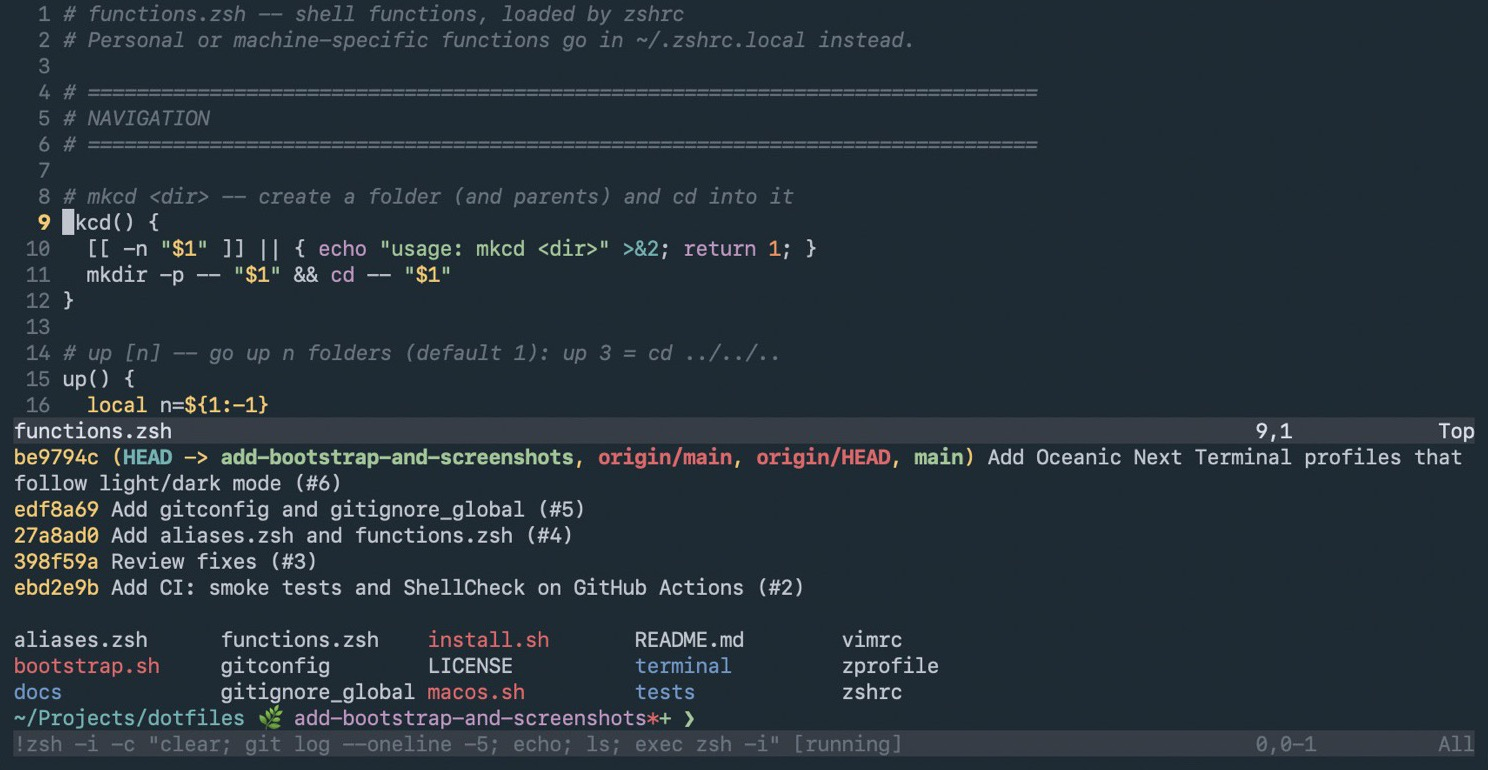
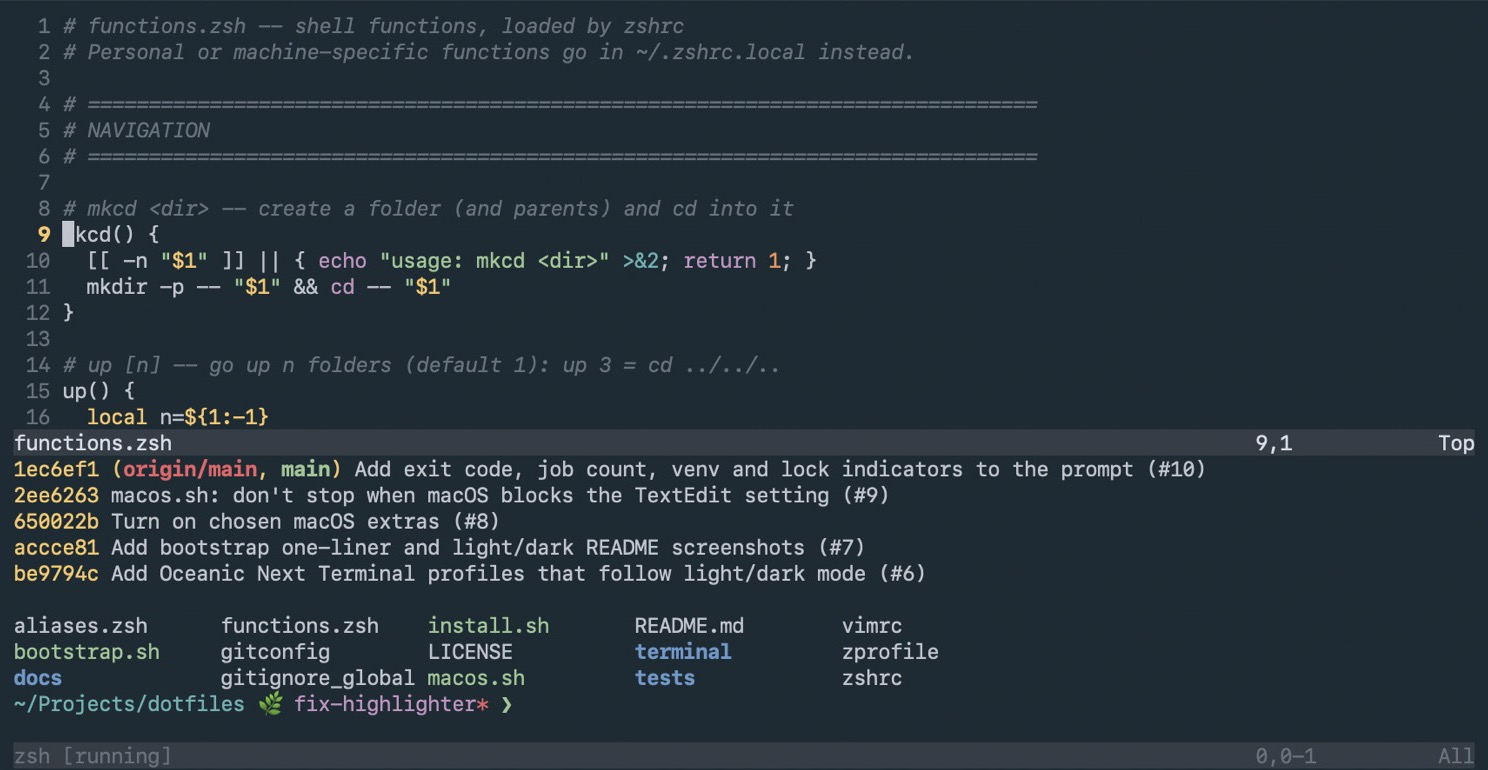
Fix highlighter false errors, add its tests, refresh README and screenshots (#11)
Highlighter (zshrc):
- [[ (( { ! and subshells ( are valid command starts, not red errors
- Paths to executables (./script, /bin/ls, ~/bin/tool) and folder names
  (AUTO_CD) are green
- A newline starts a new command, like ;
- Backslash-escaped quotes aren't strings; \" inside "..." stays in the string
- Options after sudo/command/etc. are options, not commands
- Also run on zle-line-init so a pre-filled line (push-line, print -z) is
  colored before the first keystroke

Also:
- tests/highlight.zsh: 20 checks of _highlight_line, run by the smoke tests
- Prompt: double % in the venv name so it isn't read as formatting
- README: prompt table and example, as-you-type highlighting, LSCOLORS
- Screenshots re-captured with the new ls colors

Changed region(s): [[0.0, 0.2494, 1.0, 0.9974], [0.0309, 0.0, 0.711, 0.2182], [0.5565, 0.8104, 0.6492, 0.9039]]

diff --git a/README.md b/README.md
@@ -31,9 +31,28 @@ shows the version that matches your theme.*
 **zsh** (`zshrc`)
 - Large deduplicated history shared across sessions
 - Built-in completion with case-insensitive and fuzzy matching
-- Minimal one-line prompt with the current directory, git branch and status,
-  turning red after a failed command
-- Run time shown for commands that take 3 seconds or more
+- A one-line prompt that shows only what applies right now:
+
+  ```
+  …/Projects/dotfiles 🌿 main*+ (venv) ⚙1 🔒 ✘ 127 ❯
+  ```
+
+  | Part | Meaning |
+  |---|---|
+  | `…/Projects/dotfiles` | Current folder, shortened to the last three parts |
+  | `🌿 main*+` | Git branch; `*` unstaged and `+` staged changes |
+  | `(venv)` | Active Python virtual environment |
+  | `user@host` | Shown only when connected over SSH |
+  | `⚙1` | Number of background or suspended jobs |
+  | `🔒` | You can't write to this folder |
+  | `✘ 127 ❯` | The last command failed with this exit code (the `❯` turns red) |
+
+- Run time shown for commands that take 3 seconds or more (`⏱ 2m 5s`)
+- **Syntax coloring as you type**, built from zsh itself with no plugin: the
+  command turns green if it exists and red if it doesn't (programs, aliases,
+  functions, paths to executables, and folders you can `cd` into by name).
+  Options are cyan, strings yellow, `$variables` magenta, comments grey and
+  `|` `&&` `;` bold. It's tested by `tests/highlight.zsh`.
 - In macOS Terminal, **switches the Terminal profile to match light/dark mode**,
   using the Oceanic Next profiles below so the shell matches Vim
 
@@ -76,6 +95,7 @@ shows the version that matches your theme.*
 - `PATH` with `~/bin` first, duplicates removed, and Homebrew set up if installed
 - Vim as `EDITOR`/`VISUAL`, and as the man page viewer (`MANPAGER`)
 - Friendlier `less` defaults: smart-case search, colors, exits on short output
+- `ls` colors (`LSCOLORS`): bold blue folders, magenta links, green executables
 - Loads `~/.zprofile.local` for machine-specific tool integrations
 
 **git** (`gitconfig`, `gitignore_global`)
@@ -205,8 +225,9 @@ tests/smoke.sh
 
 The smoke tests install everything into a throwaway home folder (your real one
 is untouched), then check that zsh starts with no output and a clean exit
-status, Vim starts with no errors, `macos.sh` changes nothing without
-confirmation, and `bootstrap.sh` can clone and set up a fresh home folder.
+status, the as-you-type highlighter colors 20 sample command lines correctly,
+Vim starts with no errors, `macos.sh` changes nothing without confirmation, and
+`bootstrap.sh` can clone and set up a fresh home folder.
 
 GitHub Actions runs these tests on macOS for every push and pull request, along
 with [ShellCheck](https://www.shellcheck.net) on the shell scripts and a full
